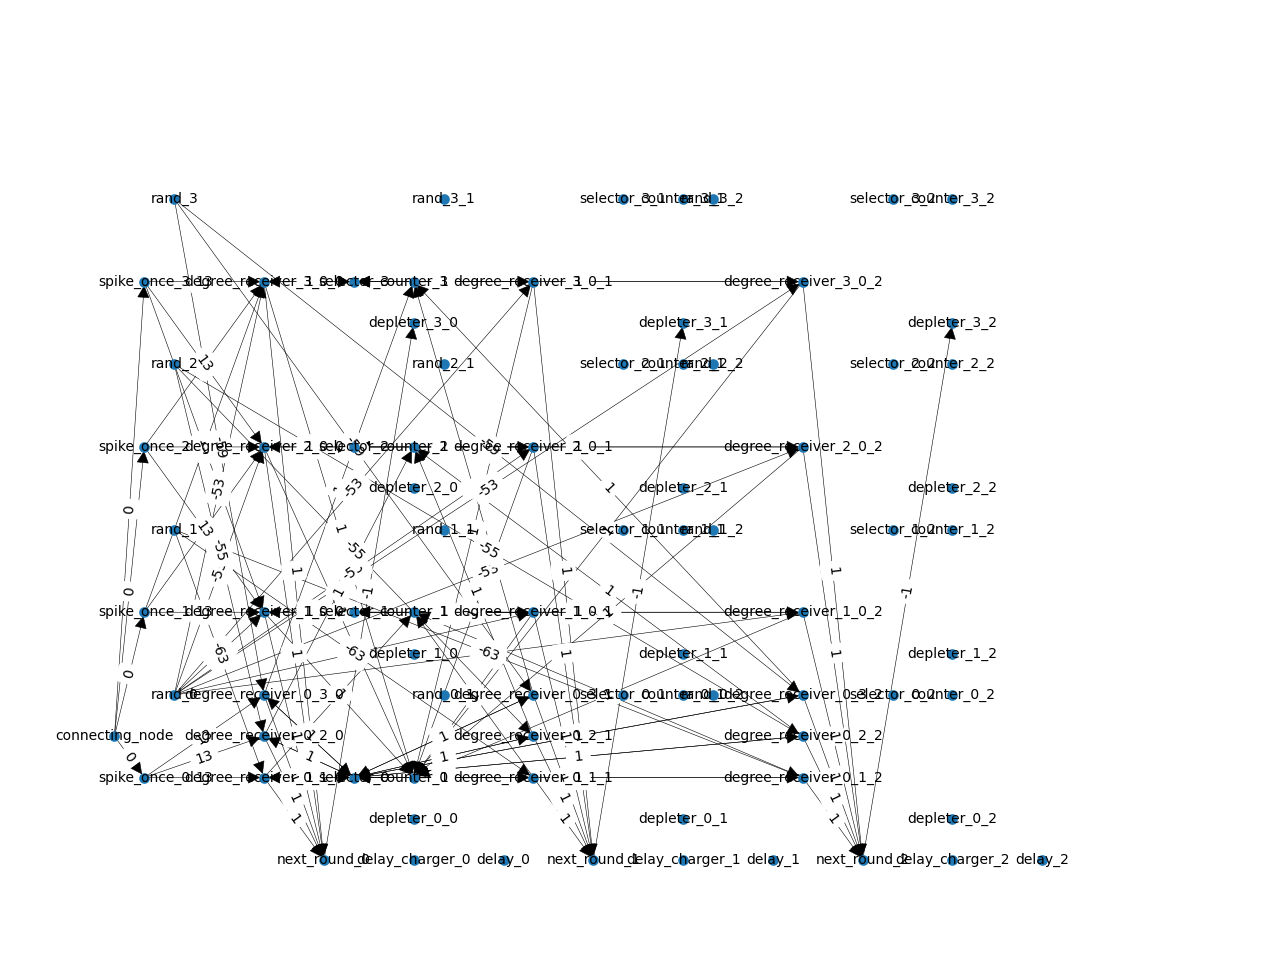
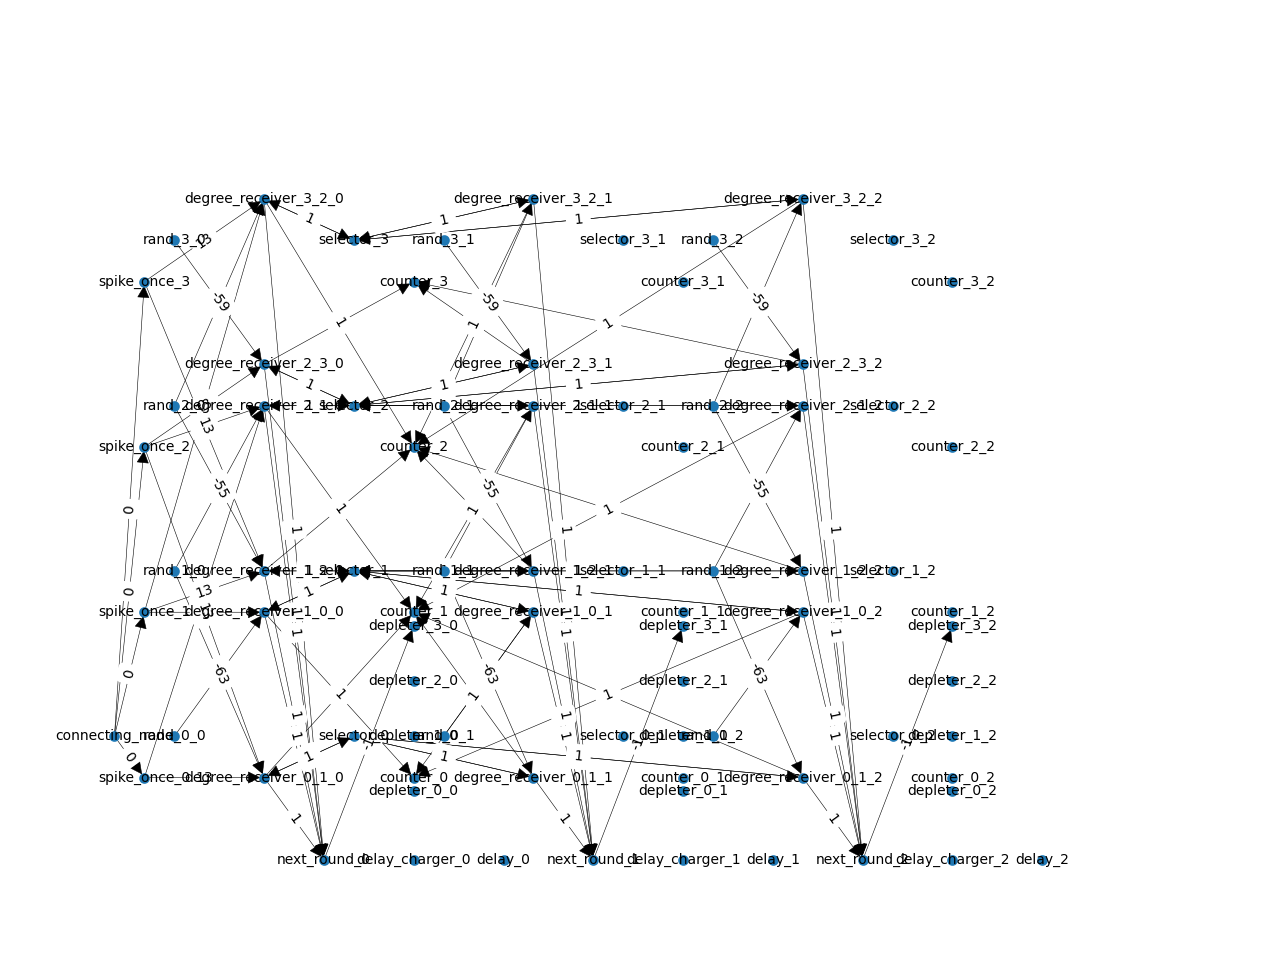
Made spacing a function of parameter.

Changed region(s): [[0.0938, 0.1875, 0.7812, 0.875], [0.7188, 0.4375, 0.75, 0.4688]]

diff --git a/src/helper_network_structure.py b/src/helper_network_structure.py
@@ -26,6 +26,7 @@ def get_weight_receiver_synapse_paths_fully_connected(G):
 
 
 def get_degree_graph_with_separate_wta_circuits(G, rand_nrs, rand_ceil, m=3):
+    d = 0.25 * m  # specify grid distance size
     """Returns a networkx graph that represents the snn that computes the
     spiking degree in the degree_receiver neurons.
     One node in the graph represents one neuron.
@@ -47,7 +48,7 @@ def get_degree_graph_with_separate_wta_circuits(G, rand_nrs, rand_ceil, m=3):
         dv=0,
         bias=0,
         vth=1,
-        pos=(float(-0.25), float(0.25)),
+        pos=(float(-d), float(d)),
     )
 
     # First create all the nodes in the get_degree graph.
@@ -61,13 +62,13 @@ def get_degree_graph_with_separate_wta_circuits(G, rand_nrs, rand_ceil, m=3):
             dv=0,
             bias=2,
             vth=1,
-            pos=(float(0), float(node)),
+            pos=(float(0), float(node * 4 * d)),
         )
 
         for neighbour in nx.all_neighbors(G, node):
             if node != neighbour:
                 # One neuron per node named: degree_receiver_0-n.
-                #get_degree.add_node(
+                # get_degree.add_node(
                 #    f"degree_receiver_{node}_{neighbour}",
                 #    id=node,
                 #    du=0,
@@ -75,7 +76,7 @@ def get_degree_graph_with_separate_wta_circuits(G, rand_nrs, rand_ceil, m=3):
                 #    bias=0,
                 #    vth=1,
                 #    pos=(float(1.0), get_y_position(G, node, neighbour)),
-                #)
+                # )
 
                 for loop in range(0, m):
                     get_degree.add_node(
@@ -85,7 +86,10 @@ def get_degree_graph_with_separate_wta_circuits(G, rand_nrs, rand_ceil, m=3):
                         dv=1,
                         bias=0,
                         vth=1,
-                        pos=(float(1.0 + loop * 2.25), get_y_position(G, node, neighbour)),
+                        pos=(
+                            float(4 * d + loop * 9 * d),
+                            get_y_position(G, node, neighbour, d),
+                        ),
                     )
 
         # One neuron per node named: rand
@@ -94,17 +98,7 @@ def get_degree_graph_with_separate_wta_circuits(G, rand_nrs, rand_ceil, m=3):
                 "The range of random numbers does not allow for randomness collision prevention."
             )
 
-        get_degree.add_node(
-            f"rand_{node}",
-            id=node,
-            du=0,
-            dv=0,
-            bias=2,
-            vth=1,
-            pos=(float(0.25), float(node) + 0.5),
-        )
-
-        for loop in range(1, m):
+        for loop in range(0, m):
             get_degree.add_node(
                 f"rand_{node}_{loop}",
                 id=node,
@@ -112,7 +106,7 @@ def get_degree_graph_with_separate_wta_circuits(G, rand_nrs, rand_ceil, m=3):
                 dv=0,
                 bias=2,
                 vth=1,
-                pos=(float(0.25 + loop * 2.25), float(node) + 0.5),
+                pos=(float(d + loop * 9 * d), float(node * 4 * d) + d),
             )
 
         # Add winner selector node
@@ -123,7 +117,7 @@ def get_degree_graph_with_separate_wta_circuits(G, rand_nrs, rand_ceil, m=3):
             dv=1,
             bias=5,  # Always spike unless inhibitied by u[t]
             vth=4,
-            pos=(float(1.75), float(node)),
+            pos=(float(7 * d), float(node * 4 * d + d)),
         )
 
         for loop in range(1, m):
@@ -134,7 +128,7 @@ def get_degree_graph_with_separate_wta_circuits(G, rand_nrs, rand_ceil, m=3):
                 dv=0,
                 bias=2,
                 vth=1,
-                pos=(float(1.75 + loop * 2.25), float(node) + 0.5),
+                pos=(float(7 * d + loop * 9 * d), float(node * 4 * d + d)),
             )
 
         # Add winner selector node
@@ -145,7 +139,7 @@ def get_degree_graph_with_separate_wta_circuits(G, rand_nrs, rand_ceil, m=3):
             dv=1,
             bias=0,
             vth=0,
-            pos=(float(2.25), float(node)),
+            pos=(float(9 * d), float(node * 4 * d)),
         )
 
         for loop in range(1, m):
@@ -156,7 +150,7 @@ def get_degree_graph_with_separate_wta_circuits(G, rand_nrs, rand_ceil, m=3):
                 dv=0,
                 bias=2,
                 vth=1,
-                pos=(float(2.25 + loop * 2.25), float(node) + 0.5),
+                pos=(float(9 * d + loop * 9 * d), float(node * 4 * d)),
             )
 
         for loop in range(0, m):
@@ -167,7 +161,7 @@ def get_degree_graph_with_separate_wta_circuits(G, rand_nrs, rand_ceil, m=3):
                 dv=1,
                 bias=0,
                 vth=0,
-                pos=(float(2.25 + loop * 2.25), float(node) - 0.25),
+                pos=(float(9 * d + loop * 9 * d), float(node) - 0.25),
             )
 
         # Create next round connector neurons.
@@ -179,7 +173,7 @@ def get_degree_graph_with_separate_wta_circuits(G, rand_nrs, rand_ceil, m=3):
                 dv=1,
                 bias=0,
                 vth=len(G.nodes) - 1,
-                pos=(float(1.5 + loop * 2.25), -0.5),
+                pos=(float(6 * d + loop * 9 * d), -2 * d),
             )
 
             get_degree.add_node(
@@ -189,7 +183,7 @@ def get_degree_graph_with_separate_wta_circuits(G, rand_nrs, rand_ceil, m=3):
                 dv=1,
                 bias=0,
                 vth=0,
-                pos=(float(2.25 + loop * 2.25), -0.5),
+                pos=(float(9 * d + loop * 9 * d), -2 * d),
             )
 
             get_degree.add_node(
@@ -199,7 +193,7 @@ def get_degree_graph_with_separate_wta_circuits(G, rand_nrs, rand_ceil, m=3):
                 dv=1,
                 bias=0,
                 vth=0,
-                pos=(float(3 + loop * 2.25), -0.5),
+                pos=(float(12 * d + loop * 9 * d), -2 * d),
             )
 
     # Ensure SNN graph is connected(Otherwise, recurrent snn builder can not span/cross the network.)
@@ -218,7 +212,7 @@ def get_degree_graph_with_separate_wta_circuits(G, rand_nrs, rand_ceil, m=3):
             if node != neighbour:
                 for other_node in G.nodes:
                     if G.has_edge(neighbour, other_node):
-                        
+
                         get_degree.add_edges_from(
                             [
                                 (
@@ -249,7 +243,7 @@ def get_degree_graph_with_separate_wta_circuits(G, rand_nrs, rand_ceil, m=3):
                         get_degree.add_edges_from(
                             [
                                 (
-                                    f"rand_{circuit}",
+                                    f"rand_{circuit}_{loop}",
                                     f"degree_receiver_{circuit_target}_{circuit}_{loop}",
                                 )
                             ],

diff --git a/test/contains_neurons_of_type_x.py b/test/contains_neurons_of_type_x.py
@@ -72,7 +72,7 @@ def has_n_neurons_of_sample_type(
 
 
 def get_n_neurons(
-    n, neurons, neuron_dict, neuron_identifier, sample_neuron, in_simulation=False,m=0
+    n, neurons, neuron_dict, neuron_identifier, sample_neuron, in_simulation=False, m=0
 ):
     """Verifies at least n neurons exist with the sample_neuron properties."""
     expected_neurons = []
@@ -96,7 +96,7 @@ def get_n_neurons(
         ):
 
             # Check if correct round:
-            if is_correct_round(neuron,neuron_dict,neuron_identifier,m):
+            if is_correct_round(neuron, neuron_dict, neuron_identifier, m):
                 expected_neurons.append(neuron)
 
     if len(expected_neurons) == n:
@@ -104,21 +104,23 @@ def get_n_neurons(
     else:
         raise Exception(f"len(expected_neurons)={len(expected_neurons)}")
 
-def is_correct_round(neuron,neuron_dict,neuron_identifier,m):
-    if neuron_identifier=="degree_receiver_":
-        neuron_name=neuron_dict[neuron]
-        print(f'neuron_name={neuron_name}')
+
+def is_correct_round(neuron, neuron_dict, neuron_identifier, m):
+    if neuron_identifier == "degree_receiver_":
+        neuron_name = neuron_dict[neuron]
+        print(f"neuron_name={neuron_name}")
         parts = neuron_name.split("_")
         node_index = int(parts[2])
         neighbour_index = int(parts[3])
-        round=int(parts[-1])
-        print(f'round={round}')
-        if round==m:
+        round = int(parts[-1])
+        print(f"round={round}")
+        if round == m:
             return True
         else:
             return False
     # For all neurons round is irrellevant.
     return True
+
 
 def neuron_has_expected_name(neuron, neuron_dict, neuron_identifier):
     if neuron_dict[neuron][: len(neuron_identifier)] == neuron_identifier:

diff --git a/src/helper.py b/src/helper.py
@@ -37,14 +37,14 @@ def get_some_sorting_key(some_set):
         return 0
 
 
-def get_y_position(G, node, neighbour):
+def get_y_position(G, node, neighbour, d):
     """Ensures the degree receiver nodes per node are alligned with
     continuous interval. for example for node 1, the positions 0,2,3 are
     mapped to positions: 0,1,2 by subtracting 1."""
     if neighbour > node:
-        return float(node + (neighbour - 1) / len(G))
+        return float((node + (neighbour - 1) / len(G)) * 4 * d)
     else:
-        return float(node + neighbour / len(G))
+        return float((node + neighbour / len(G)) * 4 * d)
 
 
 def generate_list_of_n_random_nrs(G, max=None, seed=None):
@@ -280,7 +280,9 @@ def get_a_in_for_spike_once(t):
         return 0
 
 
-def get_expected_amount_of_degree_receiver_neurons(G,):
+def get_expected_amount_of_degree_receiver_neurons(
+    G,
+):
     expected_amount = 0
     for node in G.nodes:
         for neighbour in nx.all_neighbors(G, node):

diff --git a/test/test_algo_p1.py b/test/test_algo_p1.py
@@ -62,7 +62,7 @@ class Test_counter(unittest.TestCase):
                 # G=create_manual_graph_with_4_nodes()
                 # Initialise paramers used for testing.
                 test_object = create_test_object(G, retry, False, False)
-                # raise Exception("STOP")
+                raise Exception("STOP")
                 # test_object = create_test_object(self,G,True,True)
 
                 # Run default tests on neurons
